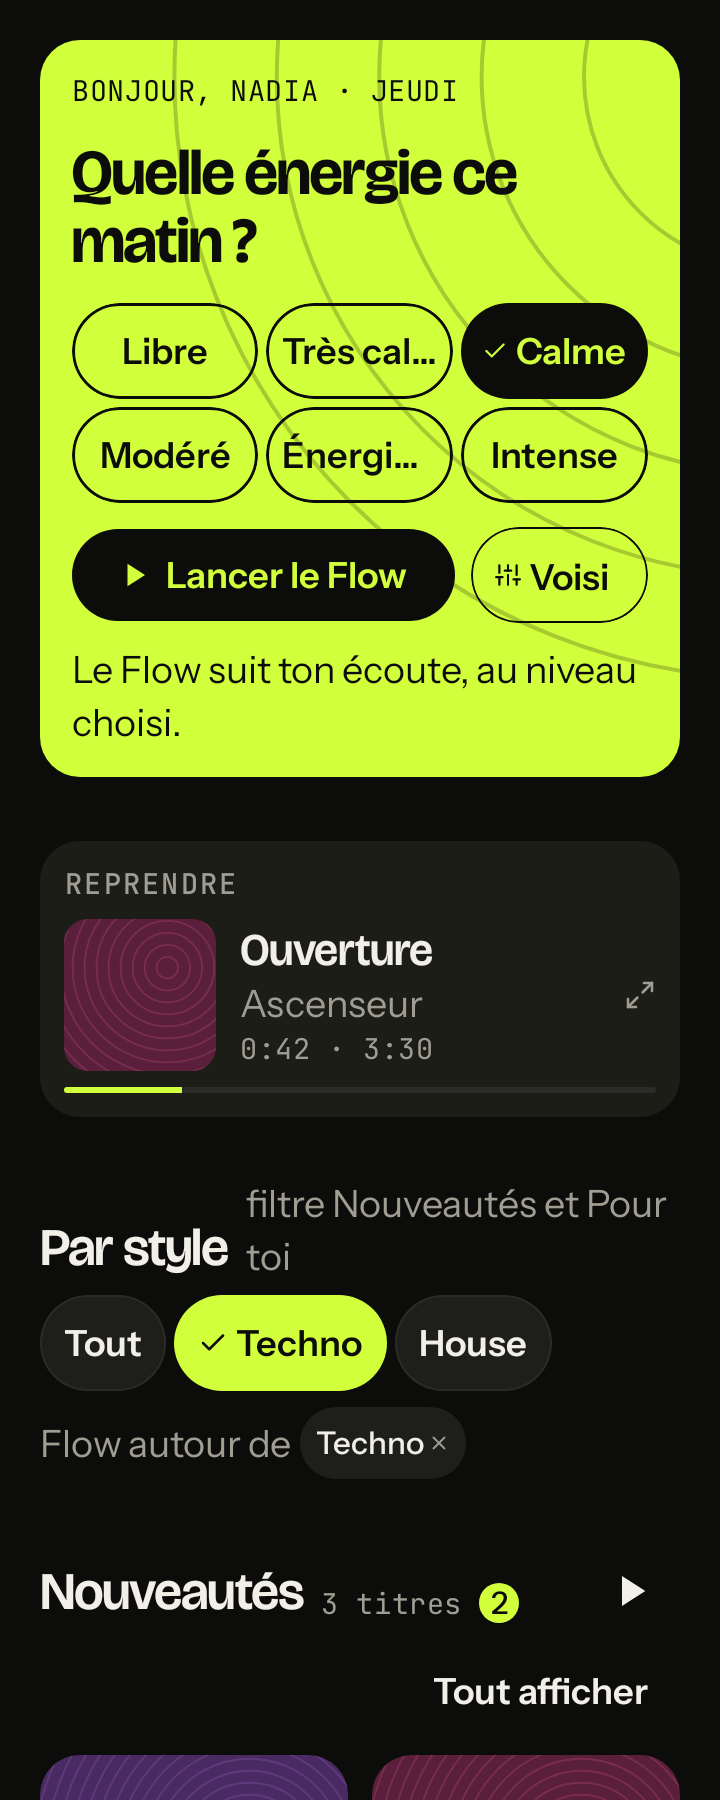
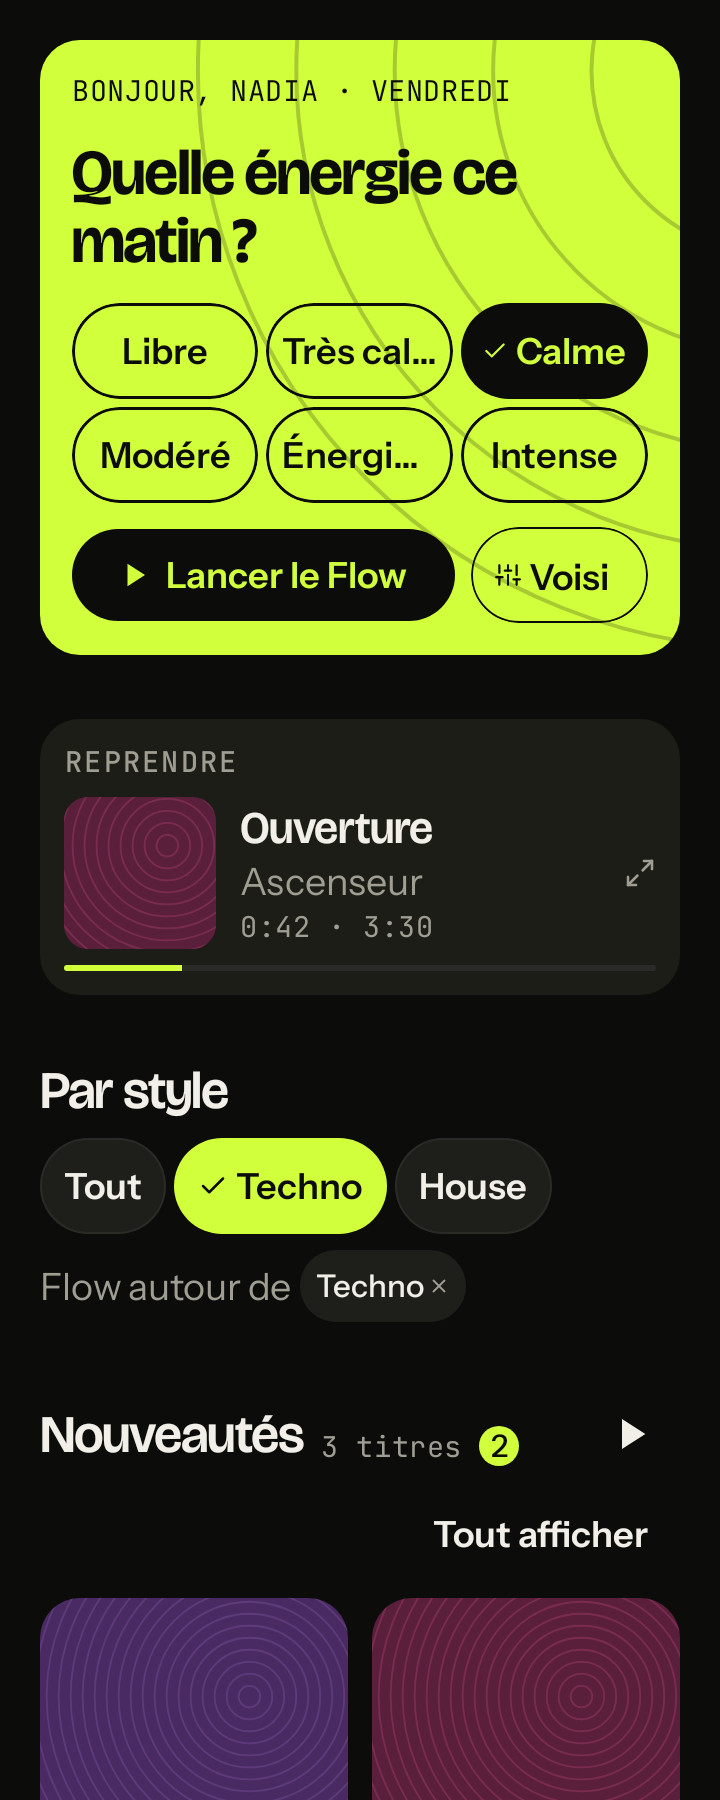
feat(mobile): retrait des textes inutiles (i18n L0)
Applique les 31 lignes validées par le propriétaire (décision D1) du plan
bilingue mobile, §2.2 : 14 suppressions, 17 raccourcissements, 1 702
caractères retirés. Le code mort laissé par une suppression part avec elle
(Row/Spacer à un seul enfant, branche when vide, champ hint de VizCopy.Mode
que personne ne rendait).

Goldens ré-enregistrés et relus : 6 accueil + 1 téléchargements. Aucun
changement Rust, serveur, SPA, ni fichier de #441/#447.

Vérifié : mobile/rust/build-android.sh (x86_64), testDebugUnitTest,
lintDebug, assembleDebug, goldens en verify.

diff --git a/mobile/android/feature/home/src/main/java/fr/neezer/mobile/feature/home/HomeScreen.kt b/mobile/android/feature/home/src/main/java/fr/neezer/mobile/feature/home/HomeScreen.kt
@@ -295,11 +295,6 @@ private fun HomeHero(state: HomeModel.State, actions: HomeActions) {
                 HeroFlowButton(state.starting, actions.launchFlow)
                 TuneChip(state, actions)
             }
-            Text(
-                text = "Le Flow suit ton écoute, au niveau choisi.",
-                style = Sillon.type.bodySmall,
-                color = colors.onac,
-            )
         }
     }
 }
@@ -433,7 +428,7 @@ private fun TunePanel(state: HomeModel.State, actions: HomeActions) {
         Column(verticalArrangement = Arrangement.spacedBy(NzSpacing.s)) {
             Text("Découverte", style = Sillon.type.titleSmall, color = colors.tx)
             Text(
-                "Jusqu'où le Flow et « Pour toi » s'écartent de ce que tu écoutes déjà.",
+                "Écart avec ce que tu écoutes déjà.",
                 style = Sillon.type.bodySmall,
                 color = colors.dim,
             )
@@ -467,11 +462,6 @@ private fun ResumePanel(data: HomeData, actions: HomeActions) {
             if (resume == null) {
                 Column(verticalArrangement = Arrangement.spacedBy(NzSpacing.s)) {
                     Text("Rien en cours de lecture.", style = Sillon.type.titleSmall, color = colors.tx)
-                    Text(
-                        "Choisis une énergie et lance le Flow, ou ouvre un titre depuis Explorer.",
-                        style = Sillon.type.bodySmall,
-                        color = colors.dim,
-                    )
                     NzButton(
                         text = "Explorer",
                         onClick = { actions.openSearch() },
@@ -546,10 +536,7 @@ private fun StylePicker(state: HomeModel.State, actions: HomeActions) {
     val families = remember(state.styles) { styleFamilies(state.styles) }
     if (families.isEmpty()) return
     Column(verticalArrangement = Arrangement.spacedBy(NzSpacing.s)) {
-        Row(verticalAlignment = Alignment.Bottom, horizontalArrangement = Arrangement.spacedBy(NzSpacing.s)) {
-            Text("Par style", style = Sillon.type.title, color = colors.tx)
-            Text("filtre Nouveautés et Pour toi", style = Sillon.type.bodySmall, color = colors.dim)
-        }
+        Text("Par style", style = Sillon.type.title, color = colors.tx)
         Row(
             Modifier.fillMaxWidth().horizontalScroll(rememberScrollState()),
             horizontalArrangement = Arrangement.spacedBy(NzSpacing.xs),
@@ -1109,11 +1096,6 @@ private fun FlowPickerBody(state: HomeModel.State, actions: HomeActions) {
         verticalArrangement = Arrangement.spacedBy(NzSpacing.m),
     ) {
         Text("Orienter le Flow", style = Sillon.type.title, color = colors.tx)
-        Text(
-            "Les genres sur lesquels il s'appuie, et jusqu'où il peut s'en écarter.",
-            style = Sillon.type.bodySmall,
-            color = colors.dim,
-        )
         Text(
             if (state.chosen.isEmpty()) "Genres · tous les styles"
             else "Genres · ${state.chosen.size} sur ${HomeModel.STYLES_MAX}",

diff --git a/mobile/android/feature/settings/src/main/java/fr/neezer/mobile/feature/settings/SettingsSections.kt b/mobile/android/feature/settings/src/main/java/fr/neezer/mobile/feature/settings/SettingsSections.kt
@@ -135,7 +135,7 @@ internal fun AppearanceSection(model: SettingsModel, state: SettingsModel.State)
     val settings = state.settings ?: return
     SettingsCard(
         title = "Ambiance",
-        subtitle = "Le thème est retenu sur cet appareil et s'applique tout de suite : rien n'est rechargé, rien n'est renvoyé au serveur.",
+        subtitle = "Retenu sur cet appareil, appliqué tout de suite.",
     ) {
         Column(verticalArrangement = Arrangement.spacedBy(NzSpacing.s)) {
             THEME_CHOICES.forEach { (id, label, hint) ->
@@ -231,7 +231,7 @@ private fun AccentCard(model: SettingsModel, settings: uniffi.nz_ffi.SettingsDat
 
     SettingsCard(
         title = "Couleur personnalisée",
-        subtitle = "Une couleur à vous pour les boutons, le cœur et les sélections. Elle s'applique à Encre et Papier ; Pochette garde la couleur de la pochette qui joue.",
+        subtitle = "Une couleur à vous pour les boutons, le cœur et les sélections.",
     ) {
         Row(
             verticalAlignment = Alignment.CenterVertically,
@@ -316,7 +316,7 @@ private fun AccentCard(model: SettingsModel, settings: uniffi.nz_ffi.SettingsDat
             Text(text = "#${colourHex(pair.surface)}", style = Sillon.type.labelMono, color = colors.dim)
         }
         Text(
-            text = "Pochette suit la pochette qui joue : l'accent reprend sa couleur dominante et change à chaque titre. Une pochette sans couleur franche laisse l'orange de repli.",
+            text = "L'accent reprend la couleur dominante de la pochette qui joue.",
             style = Sillon.type.bodySmall,
             color = colors.dim,
         )
@@ -409,11 +409,6 @@ internal fun VizSection(
                 onSelect = { model.setVizFps(if (it == 0) 30 else 60) },
             )
             NzSwitch(checked = settings.vizBeat, onCheckedChange = model::setVizBeat, label = "Détection du tempo")
-            Text(
-                text = "Le tempo détecté module les barres et la couleur.",
-                style = Sillon.type.bodySmall,
-                color = Sillon.colors.dim,
-            )
             if (settings.vizMode == "scope") {
                 Text("Orientation", style = Sillon.type.label, color = Sillon.colors.tx)
                 NzSegmented(

diff --git a/mobile/android/feature/offline/src/main/java/fr/neezer/mobile/feature/offline/OfflineSettingsSection.kt b/mobile/android/feature/offline/src/main/java/fr/neezer/mobile/feature/offline/OfflineSettingsSection.kt
@@ -280,11 +280,6 @@ private fun QualityCard(model: DownloadsModel, state: DownloadsModel.State) {
     NzCard(modifier = Modifier.fillMaxWidth()) {
         Column(verticalArrangement = Arrangement.spacedBy(NzSpacing.s)) {
             Text("Qualité de téléchargement par défaut", style = Sillon.type.titleSmall, color = Sillon.colors.tx)
-            Text(
-                "Utilisée pour les nouveaux téléchargements.",
-                style = Sillon.type.bodySmall,
-                color = Sillon.colors.dim,
-            )
             DownloadsModel.QUALITIES.forEach { (rung, hint) ->
                 ChoiceRow(
                     label = DownloadsModel.qualityLabel(rung),
@@ -338,23 +333,14 @@ private fun StorageCard(model: DownloadsModel, state: DownloadsModel.State) {
                 style = Sillon.type.bodySmall,
                 color = colors.dim,
             )
-            // The size on its line, the count on the next: a row of three
-            // texts squeezed the count to one character per line at 200 %
-            // (measured), and a figure nobody can read is worse than a line.
-            Row(verticalAlignment = Alignment.CenterVertically) {
-                Text(
-                    text = DownloadsModel.bytesLabel((storage?.downloadsBytes ?: 0uL).toLong()),
-                    style = Sillon.type.titleSmall,
-                    color = colors.tx,
-                )
-                Spacer(Modifier.width(NzSpacing.s))
-                Text(
-                    "utilisés sur cet appareil",
-                    style = Sillon.type.bodySmall,
-                    color = colors.dim,
-                    modifier = Modifier.weight(1f),
-                )
-            }
+            // The size on its line, the count on the next: a row squeezed the
+            // count to one character per line at 200 % (measured), and a figure
+            // nobody can read is worse than a line.
+            Text(
+                text = DownloadsModel.bytesLabel((storage?.downloadsBytes ?: 0uL).toLong()),
+                style = Sillon.type.titleSmall,
+                color = colors.tx,
+            )
             Text(
                 text = "${storage?.tracks ?: 0u} titre(s)",
                 style = Sillon.type.mono,

diff --git a/mobile/android/feature/admin/src/main/java/fr/neezer/mobile/feature/admin/AdminSections.kt b/mobile/android/feature/admin/src/main/java/fr/neezer/mobile/feature/admin/AdminSections.kt
@@ -640,7 +640,7 @@ private fun InviteSheet(model: AdminModel, state: AdminModel.State, source: Admi
                 value = note,
                 onValue = { if (it.length <= 64) note = it },
                 numeric = false,
-                hint = "${note.length}/64 — ce nom ne crée pas de compte et n'est pas montré à la personne invitée.",
+                hint = "${note.length}/64",
             )
         }
         AdminSubtitle("Durée de validité")
@@ -837,7 +837,7 @@ private fun EnrichCard(model: AdminModel, state: AdminModel.State) {
     val section = state.enrich
     AdminCard(
         title = "Faits complétés par MusicBrainz",
-        subtitle = "Date de première sortie, compositeur, parolier et producteur, sans jamais ralentir la lecture.",
+        subtitle = "Date de première sortie, compositeur, parolier et producteur.",
     ) {
         section.data?.let { enrich -> EnrichBody(model, enrich) }
         section.failure?.let { AdminCardFailure(it, { model.retryCard("enrich") }) }
@@ -897,7 +897,7 @@ private fun CreditsCard(model: AdminModel, state: AdminModel.State) {
     val section = state.credits
     AdminCard(
         title = "Crédits des titres",
-        subtitle = "Compositeur, auteur, producteur de chaque titre, gardés en base pour le lecteur plein écran, sans jamais ralentir la lecture.",
+        subtitle = "Compositeur, auteur et producteur, pour le lecteur plein écran.",
     ) {
         section.data?.let { credits -> CreditsBody(model, credits) }
         section.failure?.let { AdminCardFailure(it, { model.retryCard("credits") }) }
@@ -1402,7 +1402,6 @@ private fun TranscribeBody(model: AdminModel, settings: AdminTranscribe, probing
         ?.let { AdminHint("Exécution : $it.") }
     AdminSwitchRow(
         title = "Transcrire les podcasts",
-        hint = "Le moteur reste désactivé tant que cette option est fermée.",
         checked = settings.enabled,
         onChange = { on -> model.saveTranscribe("enabled", if (on) "true" else "false") },
     )

diff --git a/mobile/android/feature/onboarding/src/main/java/fr/neezer/mobile/feature/onboarding/OnboardingScreen.kt b/mobile/android/feature/onboarding/src/main/java/fr/neezer/mobile/feature/onboarding/OnboardingScreen.kt
@@ -338,7 +338,7 @@ private fun ArtistsPane(state: OnboardingModel.State, actions: OnboardingActions
                     modifier = Modifier.semantics { heading() },
                 )
                 Text(
-                    text = "Choisissez-en au moins un. Trois à cinq nous donnent un bon départ.",
+                    text = "Choisissez-en au moins un.",
                     style = Sillon.type.body.copy(color = colors.dim),
                 )
                 SearchField(
@@ -748,7 +748,7 @@ private fun AccountPane(state: OnboardingModel.State, actions: OnboardingActions
             }
             item {
                 Text(
-                    "Vous pourrez relier ces comptes plus tard dans Réglages, puis Sources.",
+                    "Modifiable plus tard dans Réglages → Sources.",
                     style = Sillon.type.bodySmall.copy(color = colors.dim),
                 )
             }
@@ -959,8 +959,7 @@ private fun PlaylistCard(
                 Column(Modifier.weight(1f), verticalArrangement = Arrangement.spacedBy(NzSpacing.xs)) {
                     Text("Playlist publique", style = Sillon.type.titleSmall.copy(color = colors.tx))
                     Text(
-                        "Importez une playlist publique par son lien. Deezer, Spotify, Apple Music " +
-                            "ou YouTube.",
+                        "Importez une playlist publique par son lien.",
                         style = Sillon.type.bodySmall.copy(color = colors.dim),
                     )
                 }

diff --git a/mobile/android/feature/lan/src/main/java/fr/neezer/mobile/feature/lan/LanScreen.kt b/mobile/android/feature/lan/src/main/java/fr/neezer/mobile/feature/lan/LanScreen.kt
@@ -145,8 +145,7 @@ internal fun LanSettingsScreenBody(nav: NzNavigator) {
         verticalArrangement = Arrangement.spacedBy(NzSpacing.m),
     ) {
         Text(
-            text = "Vos appareils et vos amis de confiance sur ce Wi-Fi. Les titres déjà téléchargés " +
-                "ailleurs s'écoutent ici sans passer par le serveur.",
+            text = "Vos appareils et vos amis de confiance sur ce Wi-Fi.",
             style = Sillon.type.bodySmall,
             color = Sillon.colors.dim,
         )
@@ -414,7 +413,7 @@ private fun FriendsCard(host: LanModel, state: LanModel.State) {
                 is ScreenState.Ready -> {
                     if (friends.data.sharesTo.isEmpty() && friends.data.trustedBy.isEmpty()) {
                         Text(
-                            text = "Personne pour l'instant : vos propres appareils suffisent à l'échange.",
+                            text = "Personne pour l'instant.",
                             style = Sillon.type.bodySmall,
                             color = Sillon.colors.dim,
                         )

diff --git a/mobile/android/feature/search/src/main/java/fr/neezer/mobile/feature/search/SearchScreen.kt b/mobile/android/feature/search/src/main/java/fr/neezer/mobile/feature/search/SearchScreen.kt
@@ -655,7 +655,7 @@ private fun ImportCard(offer: ImportOffer, actions: SearchActions) {
                     color = colors.tx,
                 )
                 Text(
-                    text = "Retrouver ses titres pour les écouter ici, et la garder si tu veux.",
+                    text = "Importe-la pour l'écouter ici.",
                     style = Sillon.type.bodySmall,
                     color = colors.dim,
                 )
@@ -710,9 +710,7 @@ private fun Landing(state: SearchModel.State, actions: SearchActions) {
             }
         } else {
             Text(
-                text = "Cherche un titre, un artiste, un album ou un podcast — les titres de ta " +
-                    "bibliothèque d'abord, puis le catalogue, et YouTube quand il a ce que le " +
-                    "catalogue n'a pas.",
+                text = "Cherche un titre, un artiste, un album ou un podcast.",
                 style = Sillon.type.body,
                 color = colors.dim,
             )

diff --git a/mobile/android/feature/viz/src/main/java/fr/neezer/mobile/feature/viz/VizCopy.kt b/mobile/android/feature/viz/src/main/java/fr/neezer/mobile/feature/viz/VizCopy.kt
@@ -26,12 +26,10 @@ internal object VizCopy {
         Mode(
             id = "bars",
             label = "Barres",
-            hint = "Le spectre en capsules de lumière, avec une vraie résolution dans les graves.",
         ),
         Mode(
             id = "scope",
             label = "Oscilloscope",
-            hint = "Le signal lui-même, une trace par canal, déclenchée comme sur un vrai oscilloscope.",
         ),
     )
 
@@ -130,7 +128,7 @@ internal object VizCopy {
     data class Choice(val id: String, val label: String, val hint: String, val index: Int)
 
     /** One scene: what it is called and what it costs (`modes.js`). */
-    data class Mode(val id: String, val label: String, val hint: String)
+    data class Mode(val id: String, val label: String)
 
     /** One palette source. */
     data class Palette(val id: String, val label: String)

diff --git a/mobile/android/feature/trackactions/src/main/java/fr/neezer/mobile/feature/trackactions/PlaylistPickerSheet.kt b/mobile/android/feature/trackactions/src/main/java/fr/neezer/mobile/feature/trackactions/PlaylistPickerSheet.kt
@@ -168,14 +168,6 @@ fun PlaylistPickerSheet(
                                     )
                                 }
                             }
-                            if (picker.shown.size > LIST_MAX) {
-                                Text(
-                                    text = "Filtre pour trouver les autres playlists.",
-                                    style = Sillon.type.bodySmall,
-                                    color = colors.dim,
-                                    modifier = Modifier.padding(NzSpacing.s),
-                                )
-                            }
                         }
                     }
                 }

diff --git a/mobile/android/feature/podcasts/src/main/java/fr/neezer/mobile/feature/podcasts/ShowScreen.kt b/mobile/android/feature/podcasts/src/main/java/fr/neezer/mobile/feature/podcasts/ShowScreen.kt
@@ -686,11 +686,6 @@ private fun TranscriptionCard(
                             style = Sillon.type.bodySmall,
                             color = colors.dim,
                         )
-                        Text(
-                            text = "Transcrire les épisodes archivés les plus récents",
-                            style = Sillon.type.bodySmall,
-                            color = colors.dim,
-                        )
                         FlowRow(
                             verticalArrangement = Arrangement.spacedBy(NzSpacing.xs),
                             horizontalArrangement = Arrangement.spacedBy(NzSpacing.s),

diff --git a/mobile/android/feature/settings/src/main/java/fr/neezer/mobile/feature/settings/SourcesSections.kt b/mobile/android/feature/settings/src/main/java/fr/neezer/mobile/feature/settings/SourcesSections.kt
@@ -602,11 +602,6 @@ private fun GroupsBlock(model: SettingsModel, access: uniffi.nz_ffi.AccessData) 
     Column(verticalArrangement = Arrangement.spacedBy(NzSpacing.xs)) {
         Spacer(Modifier.height(NzSpacing.m))
         Text("Groupes", style = Sillon.type.label, color = colors.tx)
-        Text(
-            text = "Un groupe est un ensemble de personnes à qui un accès se donne en une fois.",
-            style = Sillon.type.bodySmall,
-            color = colors.dim,
-        )
         access.groups.forEach { group ->
             Row(
                 modifier = Modifier.fillMaxWidth().height(NzMinTouchTarget),

diff --git a/mobile/android/feature/playlist/src/main/java/fr/neezer/mobile/feature/playlist/PlaylistSheets.kt b/mobile/android/feature/playlist/src/main/java/fr/neezer/mobile/feature/playlist/PlaylistSheets.kt
@@ -762,12 +762,6 @@ fun AddTracksSheet(
 
             add.loading -> Text("Recherche…", style = Sillon.type.bodySmall, color = colors.dim)
 
-            add.rows.isEmpty() && add.term.isBlank() -> Text(
-                "Tapez un titre, un artiste ou un album.",
-                style = Sillon.type.bodySmall,
-                color = colors.dim,
-            )
-
             add.rows.isEmpty() -> Text(
                 "Aucun titre ne correspond à « ${add.term} ».",
                 style = Sillon.type.bodySmall,
